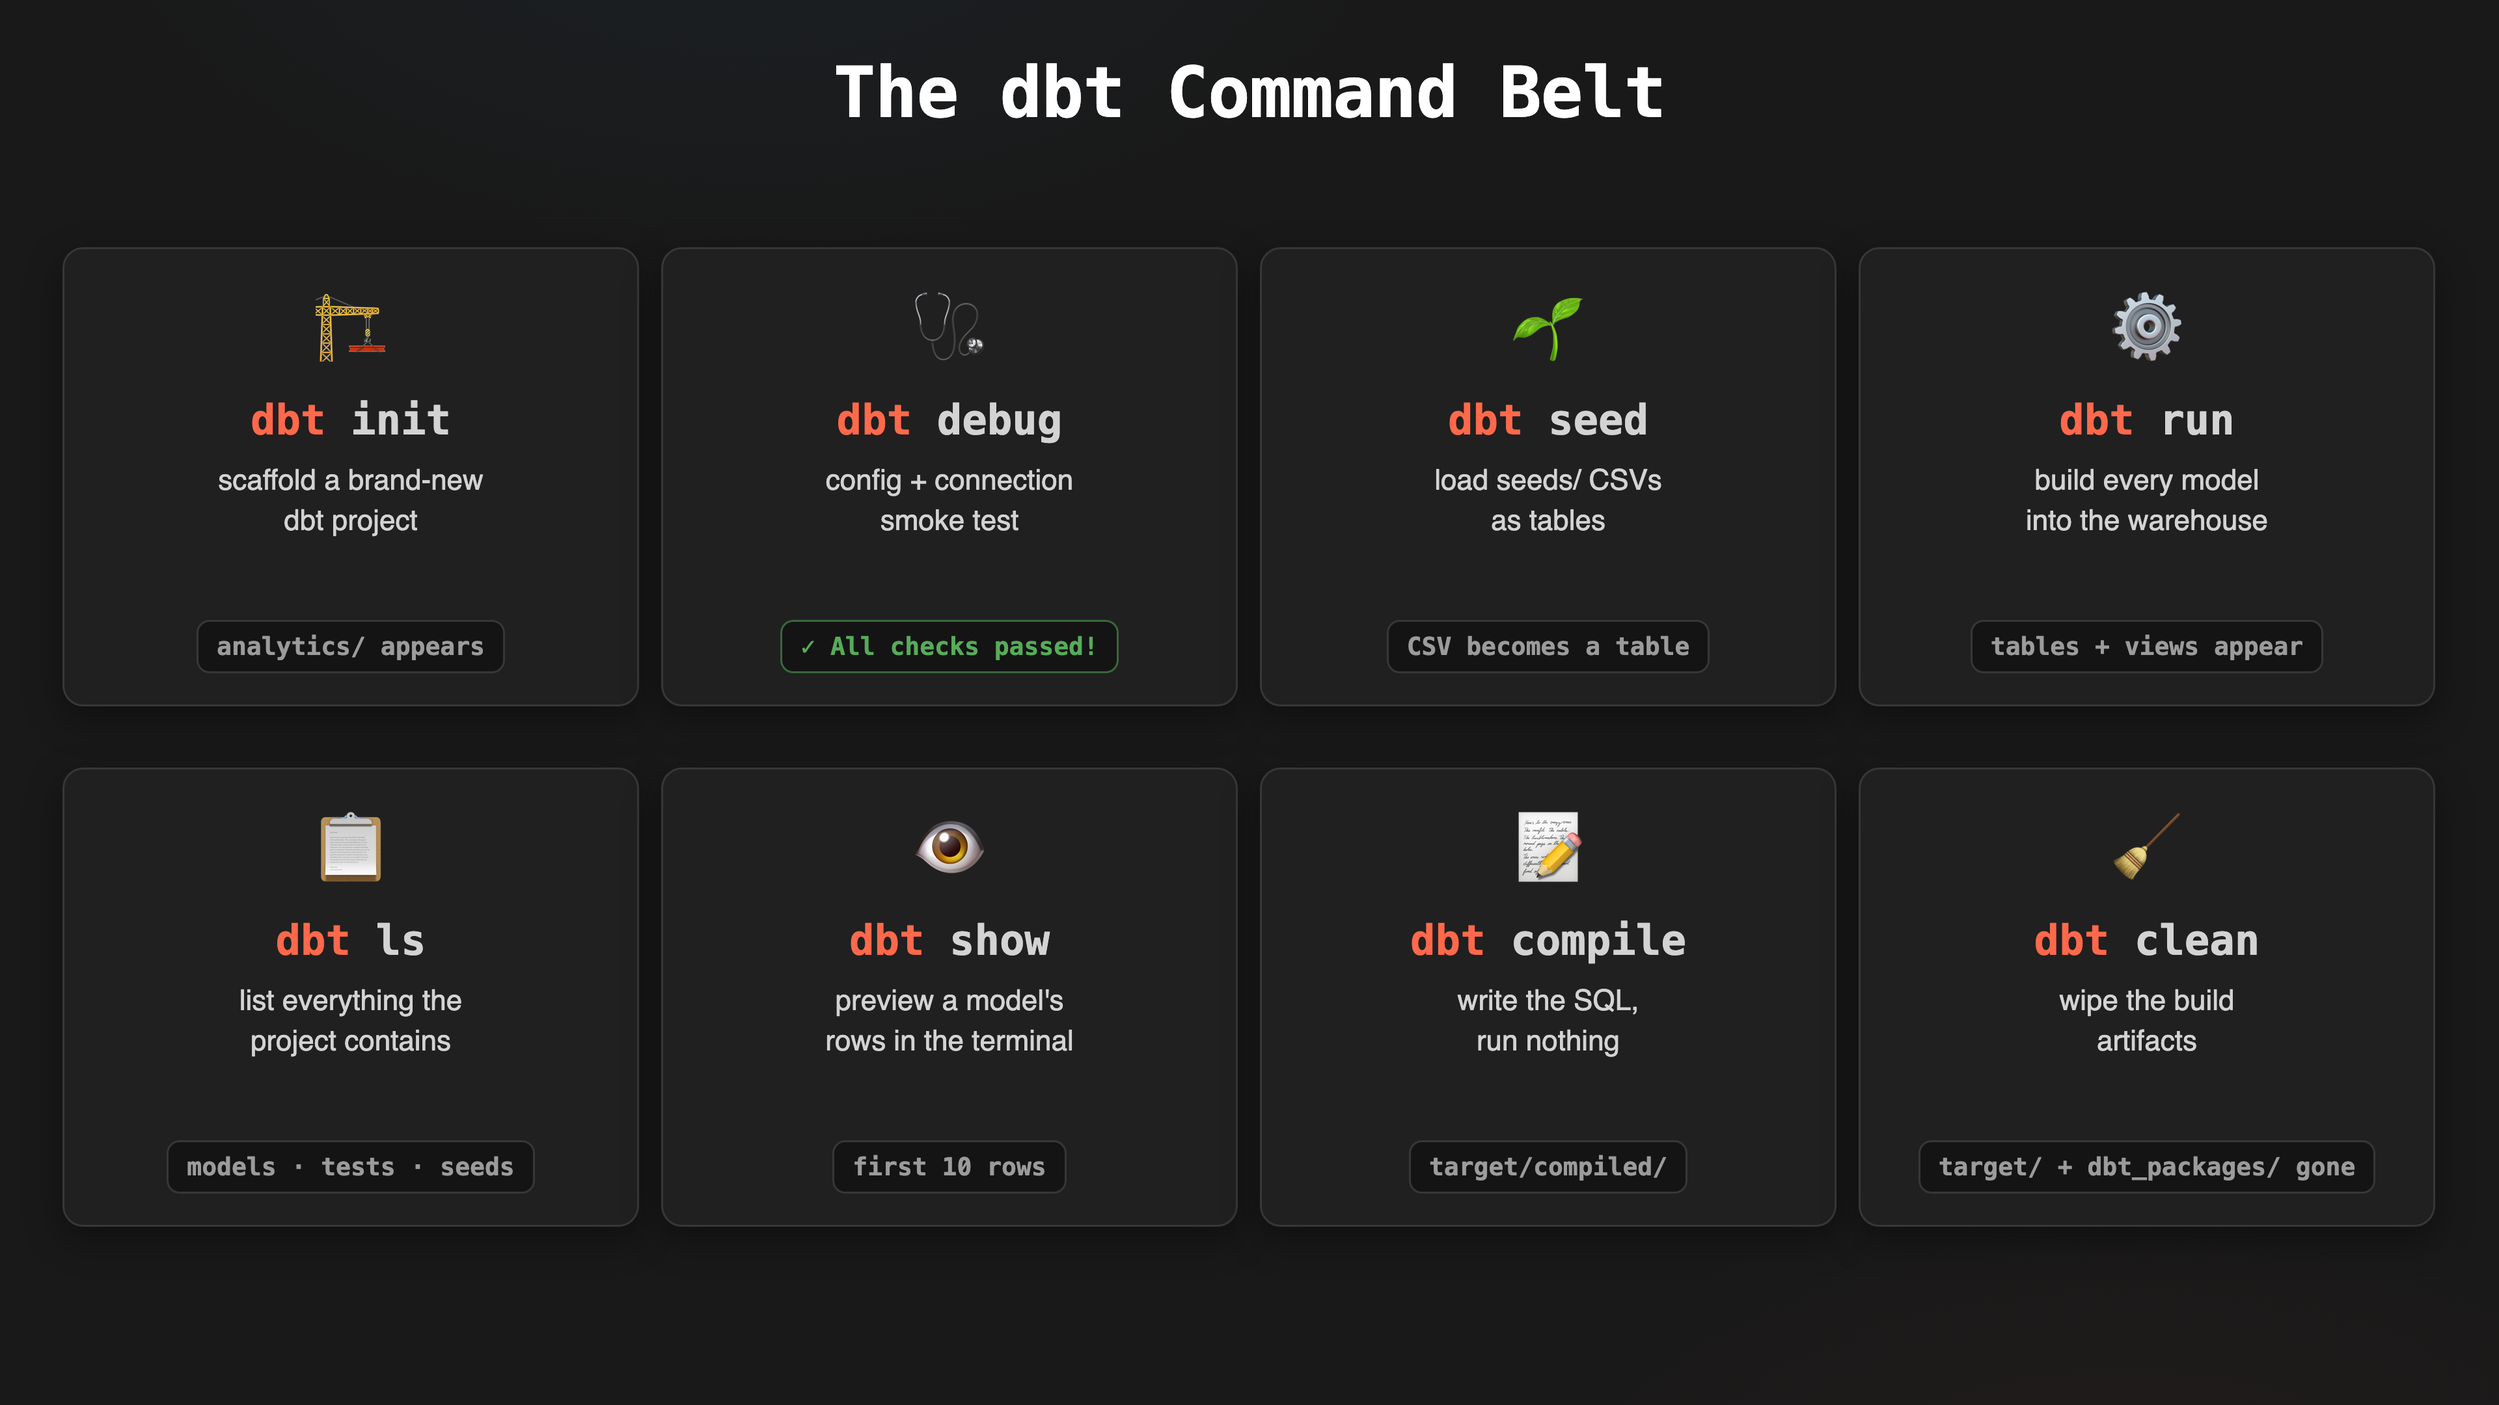
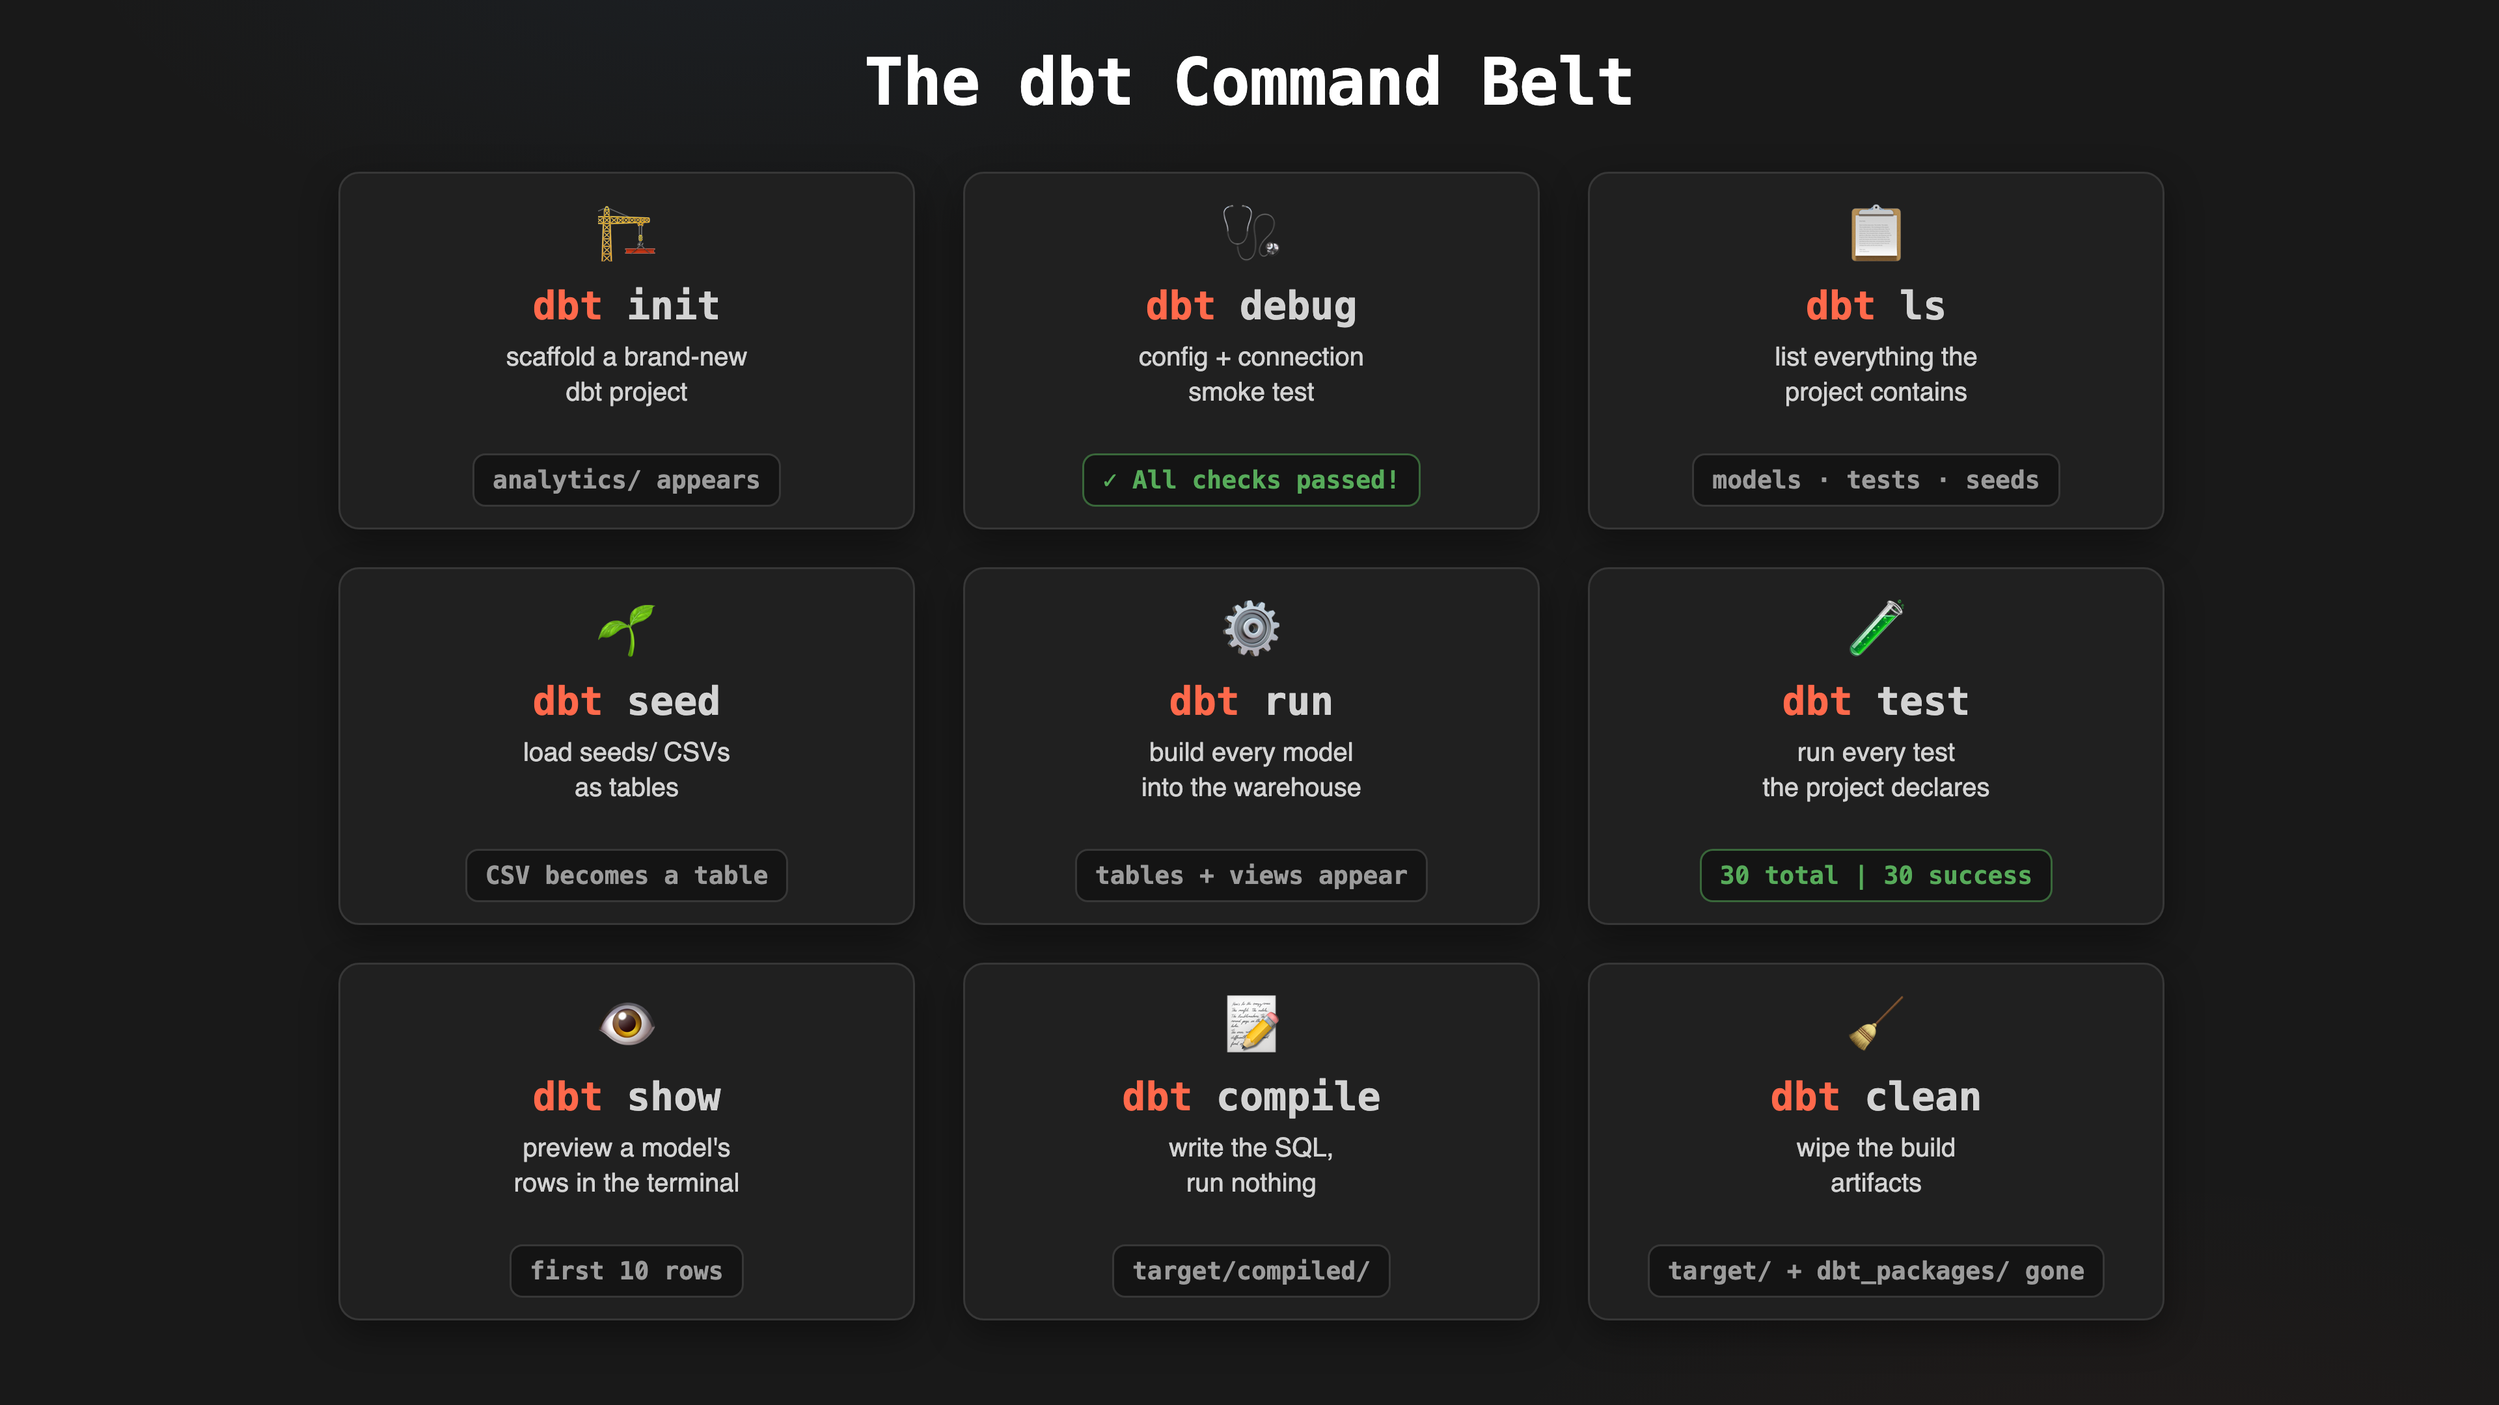
1.02 diagrams: add the dbt test command card; belt becomes nine commands in a 3 x 3 grid (init, debug, ls / seed, run, test / show, compile, clean)

diff --git a/resources/diagrams/1.02_dbt_command_belt.html b/resources/diagrams/1.02_dbt_command_belt.html
@@ -20,94 +20,103 @@
       radial-gradient(900px 480px at 30% -8%, rgba(88,166,255,.05), transparent 60%),
       radial-gradient(900px 520px at 85% 112%, rgba(255,105,75,.04), transparent 60%),
       var(--bg);}
-  .card{position:absolute;width:440px;height:350px;background:var(--panel);border:1.5px solid var(--line);
+  .card{position:absolute;width:440px;height:272px;background:var(--panel);border:1.5px solid var(--line);
     border-radius:16px;box-shadow:0 10px 28px rgba(0,0,0,.38)}
   .mono{font-family:var(--mono)}
-  .cmd{font-family:var(--mono);font-weight:800;font-size:32px;white-space:nowrap}
+  .cmd{font-family:var(--mono);font-weight:800;font-size:30px;white-space:nowrap}
   .cmd b{color:var(--dbt);font-weight:800}
-  .job{color:var(--text);font-size:22px;line-height:1.4}
+  .job{color:var(--text);font-size:20px;line-height:1.35}
   .chip{display:inline-block;font-family:var(--mono);font-weight:700;font-size:19px;
     border-radius:10px;padding:8px 14px;background:#141414;border:1.5px solid var(--line);color:var(--muted);white-space:nowrap}
-  .inner{padding:26px 24px;text-align:center}
-  .chiprow{position:absolute;left:0;bottom:24px;width:100%;text-align:center}
+  .inner{padding:18px 22px;text-align:center}
+  .chiprow{position:absolute;left:0;bottom:16px;width:100%;text-align:center}
 </style>
 </head>
 <body>
 <div class="stage">
 
-  <div style="position:absolute;left:0;top:40px;width:1920px;text-align:center;
-       font-family:var(--mono);font-weight:700;font-size:54px;color:#FFFFFF;letter-spacing:-.01em">The dbt Command Belt</div>
+  <div style="position:absolute;left:0;top:34px;width:1920px;text-align:center;
+       font-family:var(--mono);font-weight:700;font-size:50px;color:#FFFFFF;letter-spacing:-.01em">The dbt Command Belt</div>
 
-  <!-- eight commands, lesson order: 4 + 4 -->
+  <!-- nine commands, lesson order: 3 x 3 -->
 
-  <div class="card" style="left:48px;top:190px">
+  <div class="card" style="left:260px;top:132px">
     <div class="inner">
-      <div style="font-size:54px">🏗</div>
-      <div class="cmd" style="margin-top:16px"><b>dbt</b> init</div>
-      <div class="job" style="margin-top:12px">scaffold a brand-new<br>dbt project</div>
+      <div style="font-size:44px">🏗</div>
+      <div class="cmd" style="margin-top:8px"><b>dbt</b> init</div>
+      <div class="job" style="margin-top:8px">scaffold a brand-new<br>dbt project</div>
     </div>
     <div class="chiprow"><span class="chip">analytics/ appears</span></div>
   </div>
 
-  <div class="card" style="left:508px;top:190px">
+  <div class="card" style="left:740px;top:132px">
     <div class="inner">
-      <div style="font-size:54px">🩺</div>
-      <div class="cmd" style="margin-top:16px"><b>dbt</b> debug</div>
-      <div class="job" style="margin-top:12px">config + connection<br>smoke test</div>
+      <div style="font-size:44px">🩺</div>
+      <div class="cmd" style="margin-top:8px"><b>dbt</b> debug</div>
+      <div class="job" style="margin-top:8px">config + connection<br>smoke test</div>
     </div>
     <div class="chiprow"><span class="chip" style="color:var(--ok);border-color:rgba(87,171,90,.55)">✓ All checks passed!</span></div>
   </div>
 
-    <div class="card" style="left:968px;top:190px">
+    <div class="card" style="left:260px;top:436px">
     <div class="inner">
-      <div style="font-size:54px">🌱</div>
-      <div class="cmd" style="margin-top:16px"><b>dbt</b> seed</div>
-      <div class="job" style="margin-top:12px">load seeds/ CSVs<br>as tables</div>
+      <div style="font-size:44px">🌱</div>
+      <div class="cmd" style="margin-top:8px"><b>dbt</b> seed</div>
+      <div class="job" style="margin-top:8px">load seeds/ CSVs<br>as tables</div>
     </div>
     <div class="chiprow"><span class="chip">CSV becomes a table</span></div>
   </div>
 
-  <div class="card" style="left:1428px;top:190px">
+  <div class="card" style="left:740px;top:436px">
     <div class="inner">
-      <div style="font-size:54px">⚙</div>
-      <div class="cmd" style="margin-top:16px"><b>dbt</b> run</div>
-      <div class="job" style="margin-top:12px">build every model<br>into the warehouse</div>
+      <div style="font-size:44px">⚙</div>
+      <div class="cmd" style="margin-top:8px"><b>dbt</b> run</div>
+      <div class="job" style="margin-top:8px">build every model<br>into the warehouse</div>
     </div>
     <div class="chiprow"><span class="chip">tables + views appear</span></div>
   </div>
 
-  <div class="card" style="left:48px;top:590px">
+  <div class="card" style="left:1220px;top:132px">
     <div class="inner">
-      <div style="font-size:54px">📋</div>
-      <div class="cmd" style="margin-top:16px"><b>dbt</b> ls</div>
-      <div class="job" style="margin-top:12px">list everything the<br>project contains</div>
+      <div style="font-size:44px">📋</div>
+      <div class="cmd" style="margin-top:8px"><b>dbt</b> ls</div>
+      <div class="job" style="margin-top:8px">list everything the<br>project contains</div>
     </div>
     <div class="chiprow"><span class="chip">models · tests · seeds</span></div>
   </div>
 
-  <div class="card" style="left:508px;top:590px">
+  <div class="card" style="left:1220px;top:436px">
     <div class="inner">
-      <div style="font-size:54px">👁</div>
-      <div class="cmd" style="margin-top:16px"><b>dbt</b> show</div>
-      <div class="job" style="margin-top:12px">preview a model's<br>rows in the terminal</div>
+      <div style="font-size:44px">🧪</div>
+      <div class="cmd" style="margin-top:8px"><b>dbt</b> test</div>
+      <div class="job" style="margin-top:8px">run every test<br>the project declares</div>
+    </div>
+    <div class="chiprow"><span class="chip" style="color:var(--ok);border-color:rgba(87,171,90,.55)">30 total | 30 success</span></div>
+  </div>
+
+  <div class="card" style="left:260px;top:740px">
+    <div class="inner">
+      <div style="font-size:44px">👁</div>
+      <div class="cmd" style="margin-top:8px"><b>dbt</b> show</div>
+      <div class="job" style="margin-top:8px">preview a model's<br>rows in the terminal</div>
     </div>
     <div class="chiprow"><span class="chip">first 10 rows</span></div>
   </div>
 
-  <div class="card" style="left:968px;top:590px">
+  <div class="card" style="left:740px;top:740px">
     <div class="inner">
-      <div style="font-size:54px">📝</div>
-      <div class="cmd" style="margin-top:16px"><b>dbt</b> compile</div>
-      <div class="job" style="margin-top:12px">write the SQL,<br>run nothing</div>
+      <div style="font-size:44px">📝</div>
+      <div class="cmd" style="margin-top:8px"><b>dbt</b> compile</div>
+      <div class="job" style="margin-top:8px">write the SQL,<br>run nothing</div>
     </div>
     <div class="chiprow"><span class="chip">target/compiled/</span></div>
   </div>
 
-  <div class="card" style="left:1428px;top:590px">
+  <div class="card" style="left:1220px;top:740px">
     <div class="inner">
-      <div style="font-size:54px">🧹</div>
-      <div class="cmd" style="margin-top:16px"><b>dbt</b> clean</div>
-      <div class="job" style="margin-top:12px">wipe the build<br>artifacts</div>
+      <div style="font-size:44px">🧹</div>
+      <div class="cmd" style="margin-top:8px"><b>dbt</b> clean</div>
+      <div class="job" style="margin-top:8px">wipe the build<br>artifacts</div>
     </div>
     <div class="chiprow"><span class="chip">target/ + dbt_packages/ gone</span></div>
   </div>

diff --git a/resources/diagrams/1.02_cmd_test.html b/resources/diagrams/1.02_cmd_test.html
@@ -1,0 +1,75 @@
+<!-- @dsCard group="dbt Course Diagrams" -->
+<!doctype html>
+<html>
+<head>
+<meta charset="utf-8">
+<title>dbt test</title>
+<style>
+  @import url('https://fonts.googleapis.com/css2?family=Source+Code+Pro:wght@400;600;700;800&display=swap');
+  :root{
+    --bg:#191919; --panel:#202020; --line:#373737;
+    --text:#D3D3D3; --muted:#9B9B9B; --faint:#6B6B6B;
+    --dbt:#FF694B; --duck:#F2C94C; --blue:#58A6FF; --ok:#57AB5A; --red:#E5534B;
+    --mono:'Source Code Pro',ui-monospace,'SF Mono',Menlo,Consolas,monospace;
+    --sans:ui-sans-serif,-apple-system,'Segoe UI',Inter,Helvetica,Arial,sans-serif;
+  }
+  html,body{margin:0;padding:0;background:var(--bg)}
+  .stage{position:relative;width:1920px;height:1080px;overflow:hidden;font-family:var(--sans);color:var(--text);
+    background:radial-gradient(900px 480px at 50% -8%, rgba(255,105,75,.06), transparent 60%), var(--bg)}
+  .title{position:absolute;left:0;top:56px;width:1920px;text-align:center;font-family:var(--mono);font-weight:800;font-size:64px;color:#fff}
+  .title b{color:var(--dbt);font-weight:800}
+  .sub{position:absolute;left:0;top:140px;width:1920px;text-align:center;font-size:28px;color:var(--muted)}
+  .lane{position:absolute;top:250px;width:520px;height:600px;border:1.5px dashed var(--line);border-radius:20px}
+  .lanehead{position:absolute;top:-22px;left:0;width:100%;text-align:center}
+  .lanehead span{display:inline-block;background:var(--bg);padding:4px 18px;font-family:var(--mono);font-weight:700;font-size:22px;letter-spacing:.14em;color:var(--faint)}
+  .card{position:absolute;left:60px;width:400px;background:var(--panel);border:1.5px solid var(--line);border-radius:16px;box-shadow:0 10px 28px rgba(0,0,0,.38);padding:22px 26px;box-sizing:border-box}
+  .card .h{font-family:var(--mono);font-weight:800;font-size:30px}
+  .card ul{list-style:none;margin:14px 0 0;padding:0}
+  .card li{font-family:var(--mono);font-size:23px;line-height:1.75;color:var(--text)}
+  .card li.f::before{content:'📄 ';font-size:20px}
+  .card li.d::before{content:'📁 ';font-size:20px}
+  .card li.t::before{content:'▦ ';color:var(--ok)}
+  .card li.x{text-decoration:line-through;color:var(--faint)}
+  .card li.x::before{content:'✕ ';color:var(--red);text-decoration:none}
+  .card li.more{color:var(--faint)}
+  .card .note{margin-top:10px;font-family:var(--sans);font-size:20px;color:var(--muted)}
+  .yellow{color:var(--duck)} .blue{color:var(--blue)} .faintc{color:var(--faint)}
+  .cmd{position:absolute;left:60px;width:400px;top:200px;padding:26px 24px;box-sizing:border-box;text-align:center;background:var(--panel);border:1.5px solid rgba(255,105,75,.6);border-radius:16px;box-shadow:0 10px 28px rgba(0,0,0,.38)}
+  .cmd .c{font-family:var(--mono);font-weight:800;font-size:40px;color:#fff;white-space:nowrap}
+  .cmd .c b{color:var(--dbt);font-weight:800}
+  .cmd .j{margin-top:12px;font-size:22px;color:var(--muted);line-height:1.4}
+  .term{position:absolute;left:60px;width:400px;top:420px;background:#141414;border:1.5px solid var(--line);border-radius:12px;padding:16px 20px;box-sizing:border-box;font-family:var(--mono);font-size:20px;line-height:1.5;color:var(--muted);white-space:pre}
+  .term .k{color:var(--faint)}
+  .none{position:absolute;left:0;top:275px;width:100%;text-align:center;font-family:var(--mono);font-size:24px;color:var(--faint)}
+  .foot{position:absolute;left:0;top:930px;width:1920px;text-align:center;font-size:30px;color:var(--text)}
+  .foot b{color:var(--duck);font-weight:700}
+  .lbl{position:absolute;font-family:var(--mono);font-size:20px;color:var(--faint);text-align:center;width:110px}
+</style>
+</head>
+<body>
+<div class="stage">
+    <div class="title"><b>dbt</b> test</div>
+  <div class="sub">run every test the project declares</div>
+  <div class="lane" style="left:120px"><div class="lanehead"><span>YOUR FILES</span></div>
+    <div class="card" style="top:80px"><div class="h yellow">models/*.yml</div><ul><li class="f">27 data tests</li><li class="f">3 unit tests</li></ul><div class="note">declared next to the models, not written as SQL</div></div>
+  </div>
+  <div class="lane" style="left:700px"><div class="lanehead"><span>dbt</span></div>
+    <div class="cmd"><div class="c"><b>dbt</b> test</div><div class="j">turns each test into a query,<br>runs it, counts the rows</div></div>
+    <div class="term" style="top:420px"><span class="k">Processed: 27 tests | 3 unit tests</span>
+Summary: 30 total | 30 success</div>
+  </div>
+  <div class="lane" style="left:1280px"><div class="lanehead"><span>WAREHOUSE</span></div>
+    <div class="card" style="top:80px"><div class="h blue">dev.duckdb</div><ul><li class="t">stg_orders (view)</li><li class="t">customers (table)</li><li class="more">… the built models</li></ul><div class="note">read, never changed</div></div>
+  </div>
+  <svg width="1920" height="1080" style="position:absolute;left:0;top:0;pointer-events:none">
+    <defs><marker id="a" markerWidth="14" markerHeight="14" refX="9" refY="7" orient="auto"><path d="M0,0 L14,7 L0,14 z" fill="#D3D3D3"/></marker></defs>
+    <line x1="644" y1="470" x2="742" y2="470" stroke="#D3D3D3" stroke-width="6" marker-end="url(#a)"/>
+    <line x1="1224" y1="505" x2="1322" y2="505" stroke="#D3D3D3" stroke-width="6" marker-end="url(#a)"/>
+    <line x1="1336" y1="615" x2="1238" y2="615" stroke="#D3D3D3" stroke-width="6" marker-end="url(#a)"/>
+  </svg>
+  <div class="lbl" style="left:1224px;top:460px">query</div>
+  <div class="lbl" style="left:1224px;top:630px">0 rows</div>
+  <div class="foot">Every test is a query that should return <b>no rows</b>. Green means every one came back empty.</div>
+</div>
+</body>
+</html>
